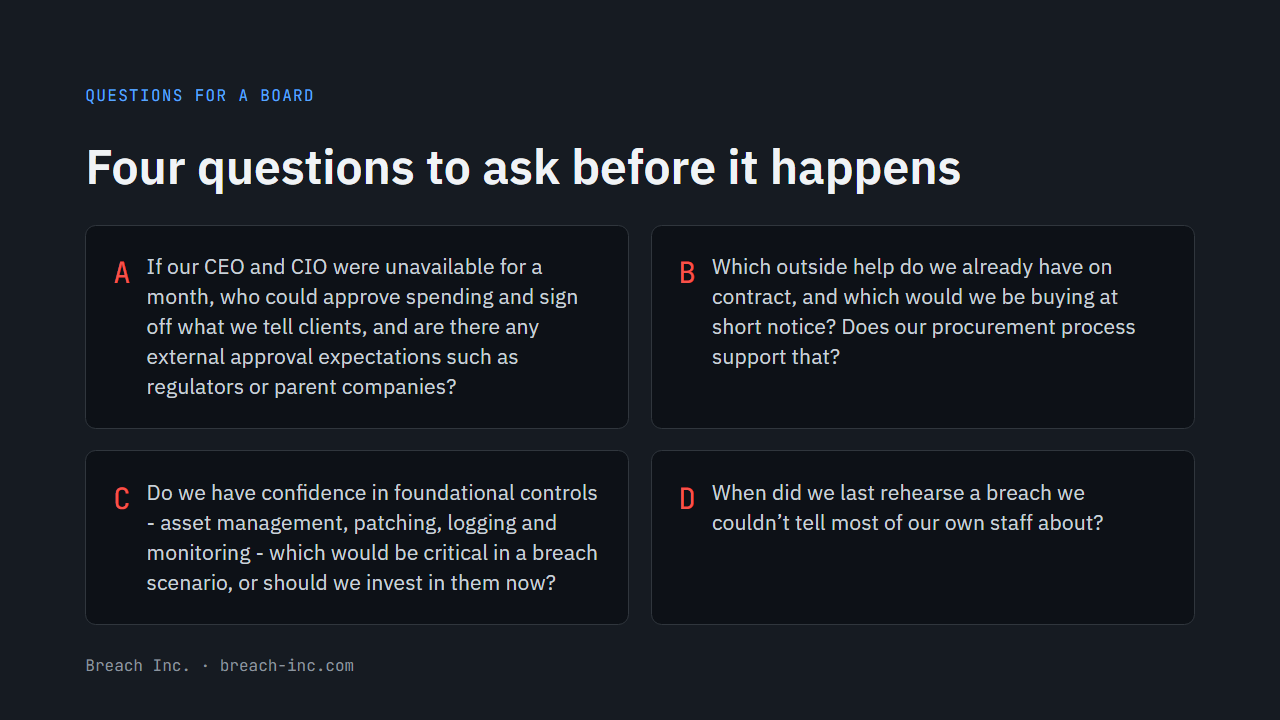
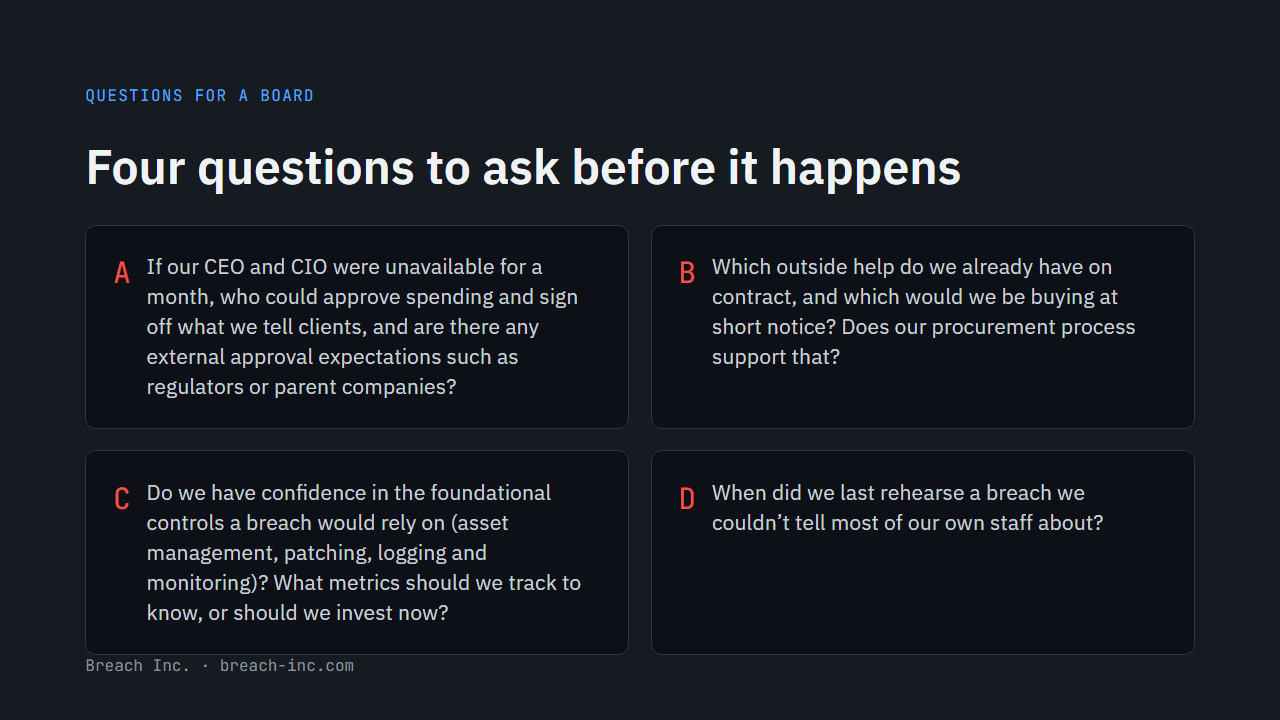
Board slide preview: ask which metrics show foundational controls are working

Changed region(s): [[0.0938, 0.6722, 0.4688, 0.8861]]

diff --git a/licence.html b/licence.html
@@ -45,7 +45,7 @@
       <div class="deck-preview">
         <img src="art/deck-01-cover.png" width="1280" height="720" loading="lazy" alt="Session deck cover: Breach Inc., a leadership session on the weeks before, during and after a data breach.">
         <img src="art/deck-04-agenda.png" width="1280" height="720" loading="lazy" alt="Agenda slide: a 60-minute session from the story to our actions, with timings for each part.">
-        <img src="art/deck-13-board.png" width="1280" height="720" loading="lazy" alt="Questions for a board: four questions to ask before a breach happens.">
+        <img src="art/deck-13-board.png?v=2" width="1280" height="720" loading="lazy" alt="Questions for a board: four questions to ask before a breach happens.">
         <img src="art/deck-16-actions.png" width="1280" height="720" loading="lazy" alt="Action list slide: what we'll do, who owns it, when it's due and where it's reported.">
       </div>
       <ul>
